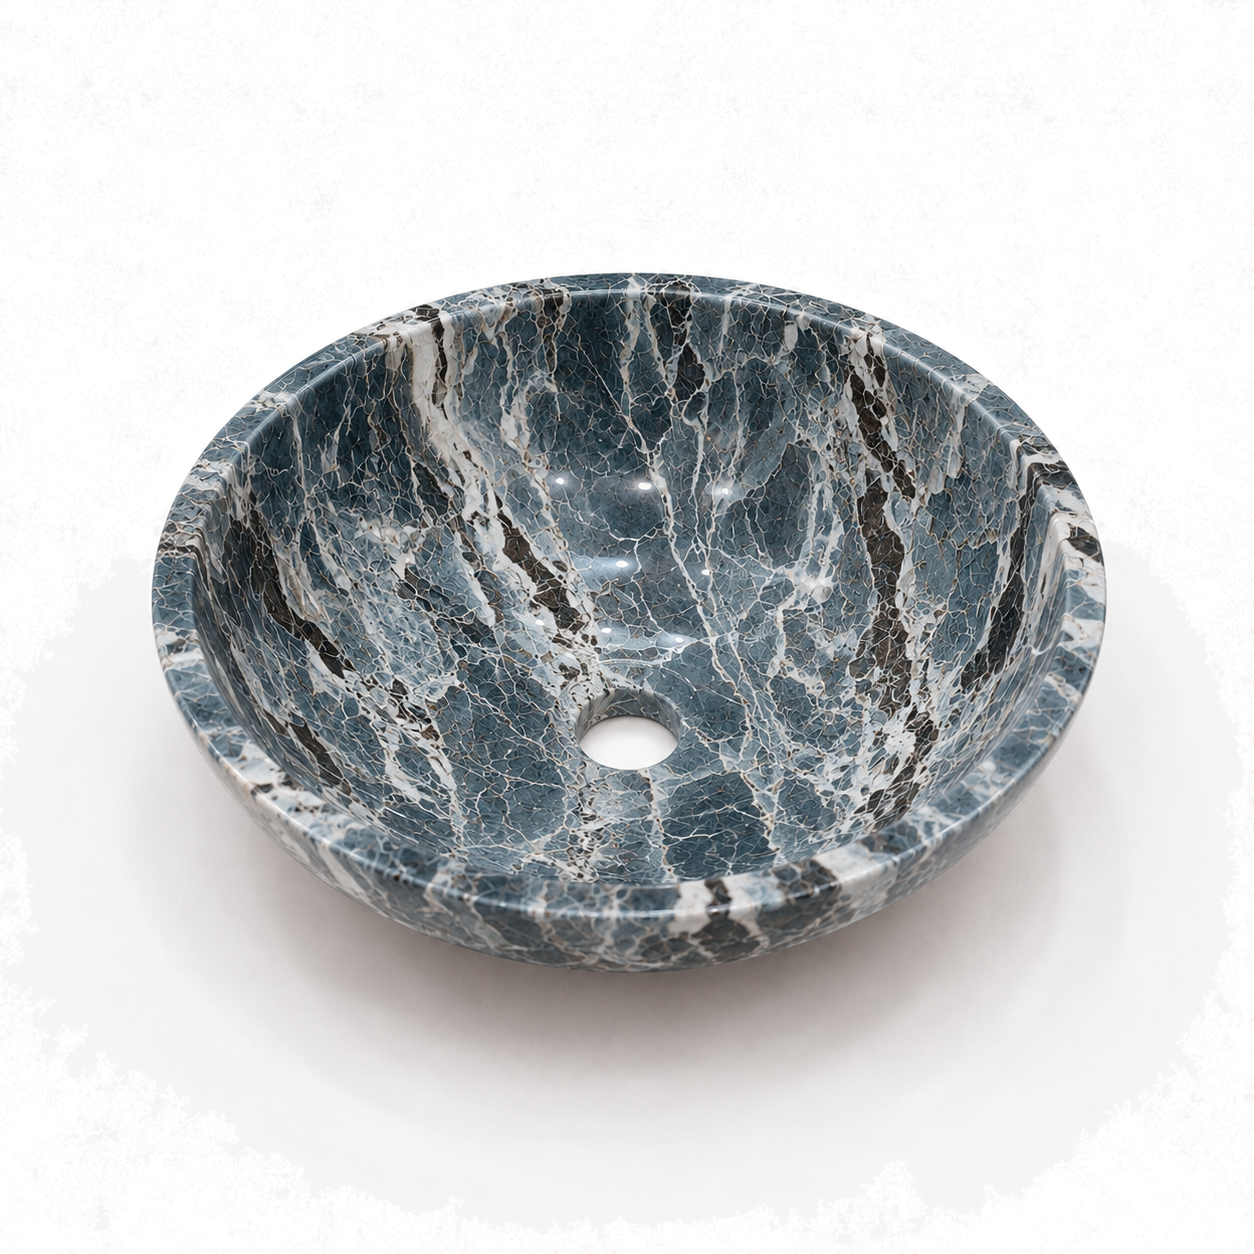
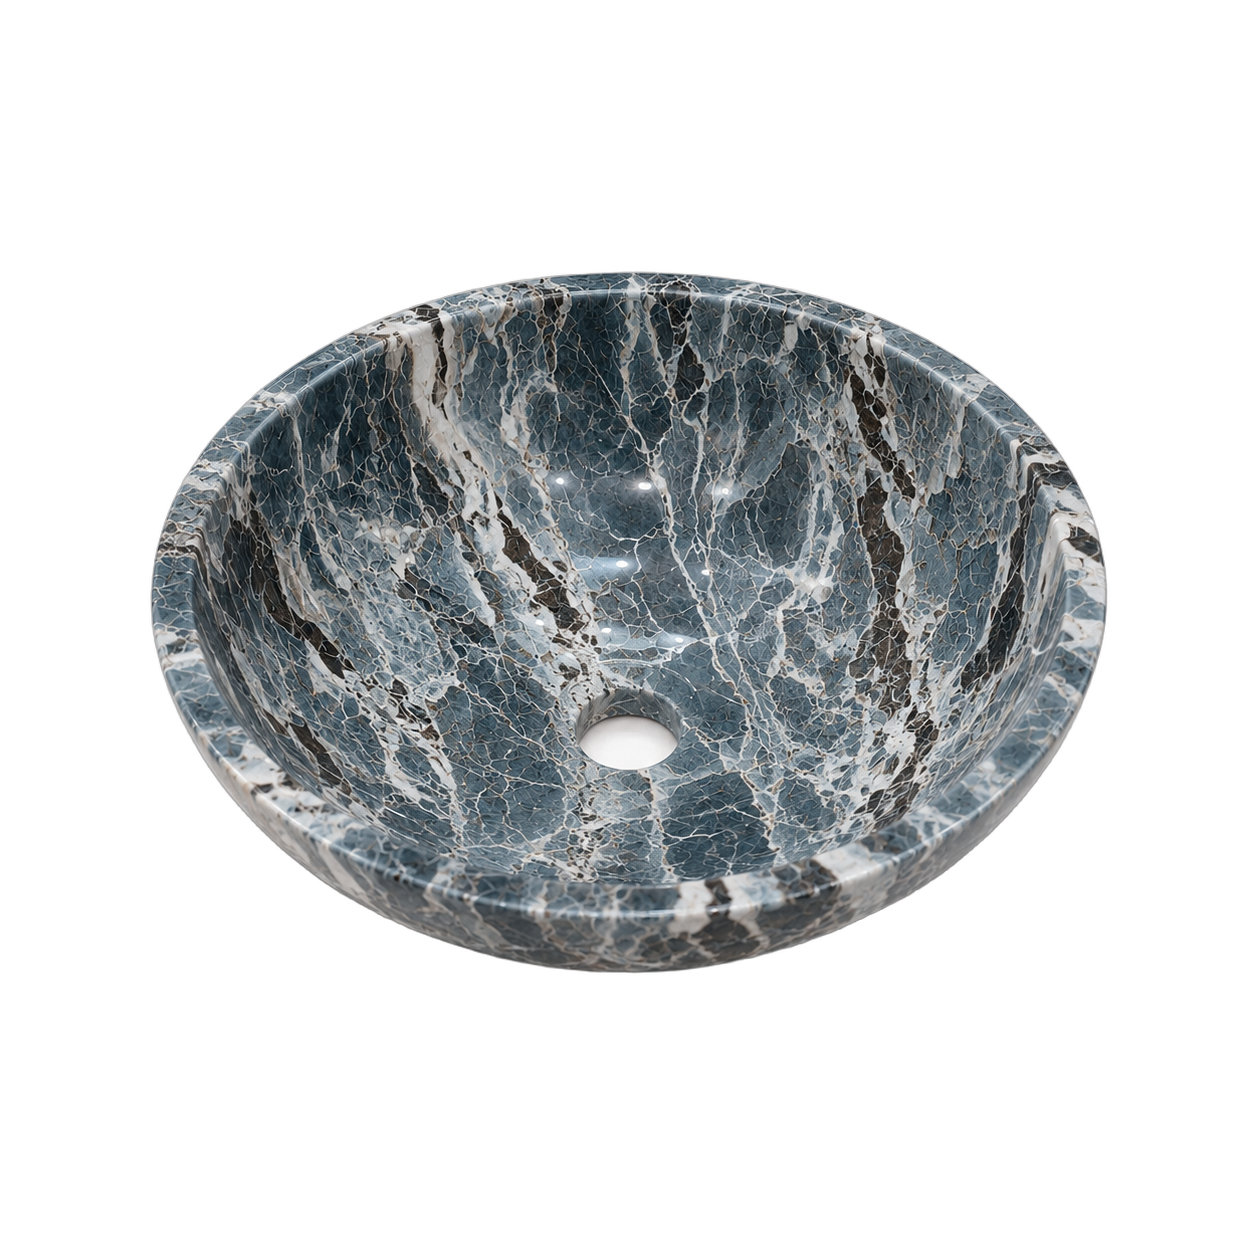
Use AI-cutout PNGs with stone-matched gradient backgrounds in dark lookbook
Replace white-background JPGs with transparent PNGs generated by rembg (U2Net AI).
Each basin now sits on a dark stone-matched radial gradient with natural drop-shadow.

Changed region(s): [[0.0933, 0.5598, 0.9019, 0.9019]]

diff --git a/lookbook-dark.html b/lookbook-dark.html
@@ -288,29 +288,45 @@ body {
   justify-content: center;
 }
 
-/* Gallery card — clean white/off-white, stone-matched border + glow */
+/* Transparent PNG on stone-matched gradient */
 .basin-image img {
-  width: 100%;
-  height: 100%;
+  width: 88%;
+  height: 88%;
   object-fit: contain;
   object-position: center;
   display: block;
-  padding: 7%;
-  box-sizing: border-box;
-  background: #F8F6F2;
 }
 
-/* Per-basin: 1px stone-matched border + soft ambient glow */
-#b01 .basin-image img { border: 1px solid rgba(168,160,150,0.45); box-shadow: 0 0 48px 14px rgba(168,160,150,0.10), 0 10px 36px rgba(0,0,0,0.45); }
-#b02 .basin-image img { border: 1px solid rgba(165,138,105,0.45); box-shadow: 0 0 48px 14px rgba(165,138,105,0.10), 0 10px 36px rgba(0,0,0,0.45); }
-#b03 .basin-image img { border: 1px solid rgba(110,110,108,0.45); box-shadow: 0 0 48px 14px rgba(110,110,108,0.10), 0 10px 36px rgba(0,0,0,0.45); }
-#b04 .basin-image img { border: 1px solid rgba(80,120,90,0.50);   box-shadow: 0 0 48px 14px rgba(80,120,90,0.12),  0 10px 36px rgba(0,0,0,0.45); }
-#b05 .basin-image img { border: 1px solid rgba(168,145,88,0.45);  box-shadow: 0 0 48px 14px rgba(168,145,88,0.10), 0 10px 36px rgba(0,0,0,0.45); }
-#b06 .basin-image img { border: 1px solid rgba(175,118,48,0.50);  box-shadow: 0 0 48px 14px rgba(175,118,48,0.12), 0 10px 36px rgba(0,0,0,0.45); }
-#b07 .basin-image img { border: 1px solid rgba(132,130,124,0.45); box-shadow: 0 0 48px 14px rgba(132,130,124,0.10),0 10px 36px rgba(0,0,0,0.45); }
-#b08 .basin-image img { border: 1px solid rgba(82,118,158,0.50);  box-shadow: 0 0 48px 14px rgba(82,118,158,0.12), 0 10px 36px rgba(0,0,0,0.45); }
-#b09 .basin-image img { border: 1px solid rgba(188,135,150,0.50); box-shadow: 0 0 48px 14px rgba(188,135,150,0.14),0 10px 36px rgba(0,0,0,0.45); }
-#b10 .basin-image img { border: 1px solid rgba(155,68,76,0.50);   box-shadow: 0 0 48px 14px rgba(155,68,76,0.12),  0 10px 36px rgba(0,0,0,0.45); }
+/* Per-basin: stone-matched radial gradient background + drop-shadow on cutout */
+#b01 .basin-image { background: radial-gradient(ellipse at 40% 35%, #4A4844 0%, #1C1B19 70%); }
+#b01 .basin-image img { filter: drop-shadow(0 16px 40px rgba(0,0,0,0.7)) drop-shadow(0 4px 12px rgba(168,160,150,0.25)); }
+
+#b02 .basin-image { background: radial-gradient(ellipse at 40% 35%, #5A4830 0%, #1E1610 70%); }
+#b02 .basin-image img { filter: drop-shadow(0 16px 40px rgba(0,0,0,0.7)) drop-shadow(0 4px 12px rgba(165,138,105,0.3)); }
+
+#b03 .basin-image { background: radial-gradient(ellipse at 40% 35%, #2A2A28 0%, #0E0E0C 70%); }
+#b03 .basin-image img { filter: drop-shadow(0 16px 40px rgba(0,0,0,0.8)) drop-shadow(0 4px 12px rgba(255,255,255,0.1)); }
+
+#b04 .basin-image { background: radial-gradient(ellipse at 40% 35%, #1E4030 0%, #0A1810 70%); }
+#b04 .basin-image img { filter: drop-shadow(0 16px 40px rgba(0,0,0,0.7)) drop-shadow(0 4px 12px rgba(80,120,90,0.35)); }
+
+#b05 .basin-image { background: radial-gradient(ellipse at 40% 35%, #4A4428 0%, #1A1810 70%); }
+#b05 .basin-image img { filter: drop-shadow(0 16px 40px rgba(0,0,0,0.7)) drop-shadow(0 4px 12px rgba(168,145,88,0.25)); }
+
+#b06 .basin-image { background: radial-gradient(ellipse at 40% 35%, #5A3010 0%, #1E0E04 70%); }
+#b06 .basin-image img { filter: drop-shadow(0 16px 40px rgba(0,0,0,0.7)) drop-shadow(0 4px 12px rgba(175,118,48,0.35)); }
+
+#b07 .basin-image { background: radial-gradient(ellipse at 40% 35%, #383836 0%, #141414 70%); }
+#b07 .basin-image img { filter: drop-shadow(0 16px 40px rgba(0,0,0,0.75)) drop-shadow(0 4px 12px rgba(132,130,124,0.2)); }
+
+#b08 .basin-image { background: radial-gradient(ellipse at 40% 35%, #1A3A50 0%, #081420 70%); }
+#b08 .basin-image img { filter: drop-shadow(0 16px 40px rgba(0,0,0,0.7)) drop-shadow(0 4px 12px rgba(82,118,158,0.35)); }
+
+#b09 .basin-image { background: radial-gradient(ellipse at 40% 35%, #503040 0%, #1A0E18 70%); }
+#b09 .basin-image img { filter: drop-shadow(0 16px 40px rgba(0,0,0,0.7)) drop-shadow(0 4px 12px rgba(188,135,150,0.35)); }
+
+#b10 .basin-image { background: radial-gradient(ellipse at 40% 35%, #4A1010 0%, #180404 70%); }
+#b10 .basin-image img { filter: drop-shadow(0 16px 40px rgba(0,0,0,0.7)) drop-shadow(0 4px 12px rgba(155,68,76,0.35)); }
 
 /* Info panel */
 .basin-info {
@@ -828,7 +844,7 @@ body {
 <!-- ─── 01 CARRARA MARBLE ─────────────────────────── -->
 <section class="basin-spread" id="b01">
   <div class="basin-image">
-    <img src="white-carrara-vessel.jpg" alt="Carrara Marble Vessel Basin">
+    <img src="basin-carrara-cut.png" alt="Carrara Marble Vessel Basin">
   </div>
   <div class="basin-info">
     <span class="col-num">01 /</span>
@@ -852,7 +868,7 @@ body {
 <!-- ─── 02 BEIGE TRAVERTINE ───────────────────────── -->
 <section class="basin-spread even" id="b02">
   <div class="basin-image">
-    <img src="warm-beige-vessel.jpg" alt="Beige Travertine Vessel Basin">
+    <img src="basin-travertine-cut.png" alt="Beige Travertine Vessel Basin">
   </div>
   <div class="basin-info">
     <span class="col-num">02 /</span>
@@ -876,7 +892,7 @@ body {
 <!-- ─── 03 NERO MARQUINA ──────────────────────────── -->
 <section class="basin-spread" id="b03">
   <div class="basin-image">
-    <img src="nero-marquina-vessel.jpg" alt="Nero Marquina Vessel Basin">
+    <img src="basin-nero-cut.png" alt="Nero Marquina Vessel Basin">
   </div>
   <div class="basin-info">
     <span class="col-num">03 /</span>
@@ -900,7 +916,7 @@ body {
 <!-- ─── 04 EMERALD GREEN MARBLE ───────────────────── -->
 <section class="basin-spread even" id="b04">
   <div class="basin-image">
-    <img src="emerald-green-basin.jpg" alt="Emerald Green Marble Vessel Basin">
+    <img src="basin-emerald-cut.png" alt="Emerald Green Marble Vessel Basin">
   </div>
   <div class="basin-info">
     <span class="col-num">04 /</span>
@@ -924,7 +940,7 @@ body {
 <!-- ─── 05 IVORY ONYX ─────────────────────────────── -->
 <section class="basin-spread" id="b05">
   <div class="basin-image">
-    <img src="white-onyx-vessel.jpg" alt="Ivory Onyx Vessel Basin">
+    <img src="basin-ivory-cut.png" alt="Ivory Onyx Vessel Basin">
   </div>
   <div class="basin-info">
     <span class="col-num">05 /</span>
@@ -948,7 +964,7 @@ body {
 <!-- ─── 06 TIGER ONYX ─────────────────────────────── -->
 <section class="basin-spread even" id="b06">
   <div class="basin-image">
-    <img src="basin-tiger-onyx-1.jpg" alt="Tiger Onyx Vessel Basin">
+    <img src="basin-tiger-cut.png" alt="Tiger Onyx Vessel Basin">
   </div>
   <div class="basin-info">
     <span class="col-num">06 /</span>
@@ -972,7 +988,7 @@ body {
 <!-- ─── 07 PIETRA GREY ────────────────────────────── -->
 <section class="basin-spread" id="b07">
   <div class="basin-image">
-    <img src="basin-pietra-grey-1.jpg" alt="Pietra Grey Vessel Basin">
+    <img src="basin-pietra-cut.png" alt="Pietra Grey Vessel Basin">
   </div>
   <div class="basin-info">
     <span class="col-num">07 /</span>
@@ -996,7 +1012,7 @@ body {
 <!-- ─── 08 OCEAN BLUE MARBLE ──────────────────────── -->
 <section class="basin-spread even" id="b08">
   <div class="basin-image">
-    <img src="ocean-blue-basin.jpg" alt="Ocean Blue Marble Vessel Basin">
+    <img src="basin-ocean-cut.png" alt="Ocean Blue Marble Vessel Basin">
   </div>
   <div class="basin-info">
     <span class="col-num">08 /</span>
@@ -1020,7 +1036,7 @@ body {
 <!-- ─── 09 PINK ONYX ──────────────────────────────── -->
 <section class="basin-spread" id="b09">
   <div class="basin-image">
-    <img src="basin-pink-purple-onyx-1.jpg" alt="Pink Onyx Vessel Basin">
+    <img src="basin-pink-cut.png" alt="Pink Onyx Vessel Basin">
   </div>
   <div class="basin-info">
     <span class="col-num">09 /</span>
@@ -1045,7 +1061,7 @@ body {
 <!-- ─── 10 ROSSO LEVANTO ───────────────────────────── -->
 <section class="basin-spread even" id="b10">
   <div class="basin-image">
-    <img src="rosso-levanto-basin.jpg" alt="Rosso Levanto Vessel Basin">
+    <img src="basin-rosso-cut.png" alt="Rosso Levanto Vessel Basin">
   </div>
   <div class="basin-info">
     <span class="col-num">10 /</span>
